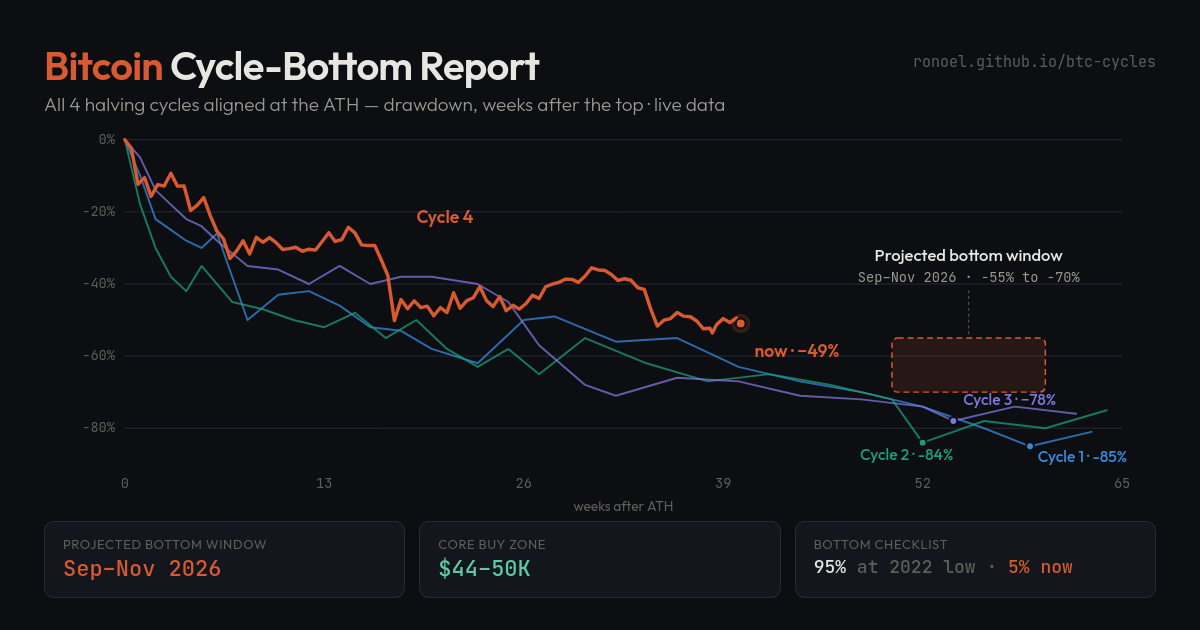
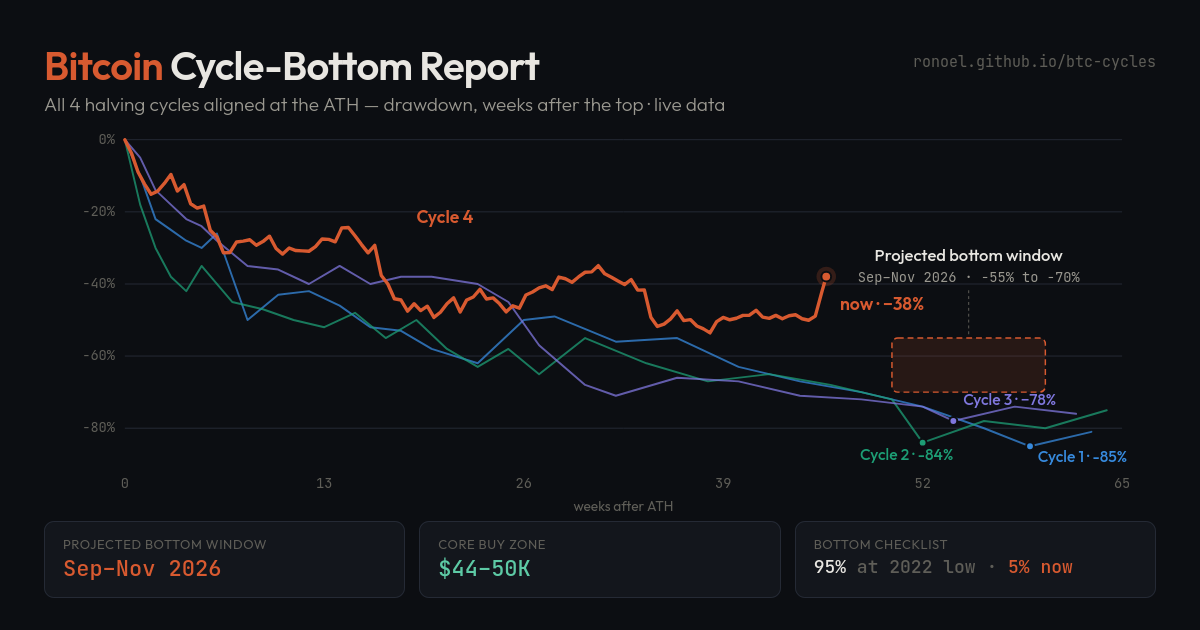
Stop the OG card's Cycle-4 line ageing by hand, and give the ETF row a run that can actually see it
Two follow-ups from the Aug 21 pass, both root-cause rather than symptom.

1. scripts/build_og_card.py (new) regenerates the card's C4 line from live Binance data.
   The line was hand-pasted in Jul 2026 and MAINTENANCE called its drift "by design" --
   true only because regenerating it was manual. By Aug 21 it ended at week ~40 / -51%
   against a live week ~46 / -38%: a ten-point error on the image every social preview of
   the report embeds, and it hid the entire rally this week's analysis is about.
   The script rewrites only the C4 path (the sole stroke-width 3.5 path), the `now` dot
   and halo, its label, and the provenance comment. Cycles 1-3 are finished history and
   it has no code that can reach them. The SVG scale is read off the chart's own axis
   ticks rather than assumed. Week 0 is anchored to exactly 0%: ATH is an intraday high,
   so the close that day sits 1.3% below it and C4 would otherwise start below the other
   three lines for no reason a reader could interpret. Verified idempotent.
   og-card.html + og.png regenerated: line now runs to week ~45.7, marker at -38%.

2. The daily Action gains a 19:00 UTC run. SoSoValue does not have the previous US
   session's ETF flows at 06:00 -- measured Aug 21: the 06:10 run got data through Aug 19
   while a manual pull at 17:40 the same day already had Aug 20 (+$606M). So the schedule
   was structurally a day behind on the one row that arbitrates a leg of the
[…]

diff --git a/og-card.html b/og-card.html
@@ -1,4 +1,4 @@
-<!-- OG share-image source: open at 1200x630 and screenshot to og.png. Regenerate when the thesis/window changes (see MAINTENANCE.md) — use firefox headless, NOT opera, which tiles the card. C4 line is a static snapshot (Jul 2026). -->
+<!-- OG share-image source: open at 1200x630 and screenshot to og.png. Regenerate when the thesis/window changes (see MAINTENANCE.md) — use firefox headless, NOT opera, which tiles the card. C4 line regenerated by scripts/build_og_card.py (data through 2026-08-22). -->
 <!DOCTYPE html><html><head><meta charset="utf-8"><style>
 @import url('https://fonts.googleapis.com/css2?family=JetBrains+Mono:wght@400;500&family=Outfit:wght@300;400;500;600&display=swap');
 *{margin:0;padding:0;box-sizing:border-box}
@@ -46,16 +46,16 @@ svg{margin-top:10px}
 <path d="M70.0,14.0 L85.7,50.9 L101.4,95.2 L117.1,106.2 L132.8,117.3 L148.5,124.7 L164.2,109.9 L195.5,198.4 L226.9,172.6 L258.3,168.9 L289.7,183.7 L321.1,205.8 L352.5,209.5 L383.8,228.0 L430.9,242.7 L478.0,198.4 L509.4,194.8 L572.2,220.6 L634.9,216.9 L697.7,246.4 L760.5,261.2 L823.2,272.2 L886.0,287.0 L948.8,309.1 L995.8,327.6 L1058.6,312.8" fill="none" stroke="#378ADD" stroke-width="2" opacity=".75" stroke-linejoin="round" stroke-linecap="round"/>
 <path d="M70.0,14.0 L85.7,80.4 L101.4,124.7 L117.1,154.2 L132.8,168.9 L148.5,143.1 L179.8,180.0 L211.2,187.4 L242.6,198.4 L274.0,205.8 L305.4,191.1 L336.8,216.9 L368.2,198.4 L399.5,228.0 L430.9,246.4 L462.3,228.0 L493.7,253.8 L540.8,216.9 L603.5,242.7 L666.3,261.2 L729.1,253.8 L791.8,264.8 L854.6,279.6 L886.0,323.9 L948.8,301.7 L1011.5,309.1 L1074.3,290.7" fill="none" stroke="#1D9E75" stroke-width="2" opacity=".75" stroke-linejoin="round" stroke-linecap="round"/>
 <path d="M70.0,14.0 L85.7,32.4 L101.4,65.6 L117.1,80.4 L132.8,95.2 L148.5,102.5 L164.2,117.3 L195.5,143.1 L226.9,146.8 L258.3,161.6 L289.7,143.1 L321.1,161.6 L352.5,154.2 L383.8,154.2 L430.9,161.6 L462.3,180.0 L493.7,224.3 L540.8,264.8 L572.2,275.9 L634.9,257.5 L697.7,261.2 L760.5,275.9 L823.2,279.6 L886.0,287.0 L917.4,301.7 L980.2,287.0 L1042.9,294.4" fill="none" stroke="#7F77DD" stroke-width="2" opacity=".75" stroke-linejoin="round" stroke-linecap="round"/>
-<path d="M70.0,14.0 L76.7,22.7 L83.5,59.7 L90.2,52.8 L96.8,72.0 L103.6,60.0 L110.3,61.4 L117.1,48.3 L123.8,61.5 L130.6,61.3 L137.3,86.4 L143.9,81.1 L150.7,73.2 L157.4,91.7 L164.2,107.6 L170.9,115.5 L177.6,135.4 L184.4,127.7 L191.0,117.4 L197.7,130.9 L204.5,113.9 L211.2,118.9 L218.0,114.1 L224.7,119.3 L231.5,126.3 L238.1,125.4 L244.8,124.0 L251.6,128.1 L258.3,126.0 L265.1,126.9 L271.8,118.2 L278.6,109.1 L285.1,118.1 L291.9,116.2 L298.6,103.6 L305.4,109.3 L312.1,121.6 L318.9,122.3 L325.6,122.2 L332.2,136.8 L339.0,152.9 L345.7,199.1 L352.5,177.5 L359.2,186.9 L366.0,178.9 L372.7,185.7 L379.3,184.2 L386.0,194.1 L392.8,185.8 L399.5,190.8 L406.3,170.6 L413.0,186.4 L419.8,178.6 L426.4,175.7 L433.1,164.2 L439.9,178.6 L446.6,184.7 L453.4,174.5 L460.1,189.0 L466.9,183.4 L473.4,187.3 L480.2,181.8 L486.9,173.2 L493.7,176.3 L500.4,164.4 L507.2,161.8 L513.9,159.9 L520.5,156.7 L527.3,156.9 L534.0,159.9 L540.8,153.4 L547.5,145.0 L554.3,147.2 L561.0,147.8 L567.6,151.8 L574.4,158.0 L581.1,156.2 L587.8,157.8 L594.6,165.4 L601.3,167.1 L608.1,187.9 L614.7,204.6 L621.4,198.6 L628.2,197.0 L634.9,190.8 L641.7,194.5 L648.4,195.1 L655.2,199.7 L661.8,207.4 L668.5,206.9 L670.9,211.7 L675.3,203.1 L682.0,197.0 L688.7,201.0 L695.5,196.5 L699.9,201.9" fill="none" stroke="#D85A30" stroke-width="3.5" opacity="1" stroke-linejoin="round" stroke-linecap="round"/>
+<path d="M70.0,14.0 L76.7,27.5 L83.5,47.1 L90.2,59.4 L96.9,69.8 L103.6,66.6 L110.4,58.7 L117.1,49.6 L123.8,66.5 L130.5,60.0 L137.3,79.5 L144.0,84.0 L150.7,81.9 L157.4,106.6 L164.2,113.5 L170.9,129.8 L177.6,129.3 L184.3,118.6 L191.1,117.7 L197.8,116.3 L204.5,122.0 L211.2,118.2 L218.0,112.7 L224.7,125.3 L231.4,131.0 L238.1,124.8 L244.9,127.4 L251.6,127.7 L258.3,128.1 L265.0,123.4 L271.8,115.5 L278.5,116.0 L285.2,118.5 L291.9,104.2 L298.7,103.8 L305.4,112.3 L312.1,121.3 L318.8,129.7 L325.6,122.1 L332.3,152.9 L339.0,161.6 L345.7,176.7 L352.5,178.0 L359.2,189.3 L365.9,181.8 L372.6,188.8 L379.4,184.3 L386.1,195.8 L392.8,190.5 L399.5,181.8 L406.3,175.8 L413.0,190.2 L419.7,177.9 L426.4,174.9 L433.2,167.0 L439.9,176.9 L446.6,175.8 L453.3,181.9 L460.1,190.1 L466.8,183.9 L473.5,186.3 L480.2,172.8 L487.0,169.8 L493.7,165.5 L500.4,163.4 L507.1,167.3 L513.9,154.5 L520.6,156.2 L527.3,159.9 L534.0,154.4 L540.8,149.6 L547.5,149.2 L554.2,142.8 L560.9,151.2 L567.7,154.6 L574.4,158.5 L581.1,162.2 L587.8,157.0 L594.6,167.9 L601.3,167.7 L608.0,195.5 L614.7,205.0 L621.5,202.6 L628.2,197.2 L634.9,189.1 L641.6,199.0 L648.4,198.0 L655.1,204.5 L661.8,207.5 L668.5,211.6 L675.3,200.1 L682.0,195.8 L688.7,198.2 L695.5,196.6 L702.2,193.7 L708.9,193.5 L715.6,188.5 L722.4,195.5 L729.1,196.7 L735.8,193.7 L742.5,197.2 L749.3,194.0 L756.0,193.1 L762.7,197.1 L769.4,198.7 L776.2,194.4 L782.9,169.6 L787.4,154.0" fill="none" stroke="#D85A30" stroke-width="3.5" opacity="1" stroke-linejoin="round" stroke-linecap="round"/>
 <circle cx="995.8" cy="327.6" r="4" fill="#378ADD" stroke="#0c0e12" stroke-width="2"/>
 <text x="1003.8" y="343.6" class="lbl" fill="#378ADD">Cycle 1 · -85%</text>
 <circle cx="886.0" cy="323.9" r="4" fill="#1D9E75" stroke="#0c0e12" stroke-width="2"/>
 <text x="822.0" y="341.9" class="lbl" fill="#1D9E75">Cycle 2 · -84%</text>
 <circle cx="917.4" cy="301.7" r="4" fill="#7F77DD" stroke="#0c0e12" stroke-width="2"/>
 <text x="927.4" y="285.7" class="lbl" fill="#7F77DD">Cycle 3 · −78%</text>
-<circle cx="699.9" cy="201.9" r="10" fill="#D85A3033"/>
-<circle cx="699.9" cy="201.9" r="5" fill="#D85A30" stroke="#0c0e12" stroke-width="2"/>
-<text x="713.9" y="235.9" class="lbl now" fill="#D85A30">now · −49%</text><text x="368.2" y="98.8" class="lbl now" fill="#D85A30">Cycle 4</text></svg>
+<circle cx="787.4" cy="154.0" r="10" fill="#D85A3033"/>
+<circle cx="787.4" cy="154.0" r="5" fill="#D85A30" stroke="#0c0e12" stroke-width="2"/>
+<text x="801.4" y="188.0" class="lbl now" fill="#D85A30">now · −38%</text><text x="368.2" y="98.8" class="lbl now" fill="#D85A30">Cycle 4</text></svg>
 <div class="stats">
 <div class="st"><div class="k">Projected bottom window</div><div class="v o">Sep–Nov 2026</div></div>
 <div class="st"><div class="k">Core buy zone</div><div class="v t">$44–50K</div></div>

diff --git a/scripts/build_og_card.py b/scripts/build_og_card.py
@@ -1,0 +1,130 @@
+#!/usr/bin/env python3
+"""Refresh the Cycle-4 line and the `now` marker in og-card.html from live data.
+
+Why this exists: the card's C4 polyline was a hand-pasted snapshot. By Aug 21, 2026 it
+ended at week ~40 / -51% while the live reading was week ~46 / -39% -- a ten-point drift
+on the image that gets embedded in every social preview of the report. MAINTENANCE.md
+called that drift "by design", which was true only because regenerating it was manual.
+It isn't any more.
+
+Usage:
+    python3 scripts/build_og_card.py          # rewrites og-card.html in place
+then re-screenshot per MAINTENANCE.md:
+    python3 -m http.server 8931 &
+    firefox --headless --profile ~/ffprof --no-remote \\
+            --screenshot ~/og.png --window-size 1200,630 \\
+            http://localhost:8931/og-card.html
+(Chromium/Opera tile the card; Firefox is the one that renders it faithfully. Snap
+browsers cannot write into the repo, hence the $HOME hop.)
+
+Only the C4 line, the `now` marker and the snapshot date are touched. Cycles 1-3 are
+finished history and are never regenerated -- they are as fixed as the tables in
+index.html, and this script deliberately has no code that could rewrite them.
+"""
+import io, json, os, re, sys, datetime, urllib.request
+
+ROOT = os.path.dirname(os.path.dirname(os.path.abspath(__file__)))
+CARD = os.path.join(ROOT, "og-card.html")
+
+# Must match index.html's ATH/ATHD consts. MAINTENANCE.md §4 lists these as never-touch.
+ATH, ATH_DATE = 126296.0, datetime.date(2025, 10, 6)
+
+# The SVG's own scale, read off its axis ticks rather than assumed: week 0 sits at
+# x=70 and week 65 at x=1090; 0% sits at y=14 and -80% at y=309.1.
+X0, PX_WEEK = 70.0, (1090.0 - 70.0) / 65
+Y0, PX_PCT = 14.0, (309.1 - 14.0) / 80
+STEP_DAYS = 3  # sampling density of the original path, kept so the line reads the same
+
+
+def daily_closes(start):
+    """(date, close) from `start` to today, oldest first, from Binance klines."""
+    out, cursor = {}, int(datetime.datetime.combine(
+        start, datetime.time(), datetime.timezone.utc).timestamp() * 1000)
+    while True:
+        url = ("https://api.binance.com/api/v3/klines?symbol=BTCUSDT&interval=1d"
+               "&limit=1000&startTime=%d" % cursor)
+        req = urllib.request.Request(url, headers={"User-Agent": "btc-cycles/1.0"})
+        rows = json.load(urllib.request.urlopen(req, timeout=45))
+        if not rows:
+            break
+        for r in rows:
+            d = datetime.datetime.fromtimestamp(r[0] / 1000, datetime.timezone.utc).date()
+            out[d] = float(r[4])
+        if len(rows) < 1000:
+            break
+        cursor = rows[-1][0] + 86_400_000
+    return sorted(out.items())
+
+
+def main():
+    series = daily_closes(ATH_DATE)
+    if not series:
+        sys.exit("no candles returned")
+
+    # Sample every STEP_DAYS, and always keep the newest point so the marker is current.
+    picked = [series[i] for i in range(0, len(series), STEP_DAYS)]
+    if picked[-1][0] != series[-1][0]:
+        picked.append(series[-1])
+
+    pts = []
+    for d, px in picked:
+        wk = (d - ATH_DATE).days / 7
+        dd = (px / ATH - 1) * 100
+        pts.append((X0 + wk * PX_WEEK, Y0 - dd * PX_PCT))
+    # Anchor week 0 at exactly 0%, like the other three lines. The chart is "aligned at
+    # the ATH", and ATH is an intraday high: the close that day was 1.3% below it, which
+    # would start C4 a hair under the 0% gridline and under the other three cycles for no
+    # reason the reader could interpret.
+    pts[0] = (X0, Y0)
+    path = " L".join("%.1f,%.1f" % p for p in pts)
+    path = "M" + path[1:] if path.startswith("L") else "M" + path
+
+    end_d, end_px = series[-1]
+    ex, ey = pts[-1]
+    end_dd = (end_px / ATH - 1) * 100
+
+    s = io.open(CARD, encoding="utf-8").read()
+    before = s
+
+    # 1. The C4 line: the ONLY path drawn at stroke-width 3.5. Cycles 1-3 use 2.
+    s, n = re.subn(r'(<path d=")M[^"]+("[^>]*stroke-width="3\.5")',
+                   lambda m: m.group(1) + path + m.group(2), s, count=1)
+    assert n == 1, "C4 path (stroke-width 3.5) not found"
+
+    # 2. The `now` marker: the halo and the dot, both at the old endpoint.
+    old_xy = re.search(r'<circle cx="([\d.]+)" cy="([\d.]+)" r="10"', s)
+    assert old_xy, "now halo not found"
+    ox, oy = old_xy.group(1), old_xy.group(2)
+    s = s.replace('<circle cx="%s" cy="%s" r="10"' % (ox, oy),
+                  '<circle cx="%.1f" cy="%.1f" r="10"' % (ex, ey))
+    s = s.replace('<circle cx="%s" cy="%s" r="5"' % (ox, oy),
+                  '<circle cx="%.1f" cy="%.1f" r="5"' % (ex, ey))
+
+    # 3. Its label, keeping the original's offset from the dot (+14, +34).
+    s, n = re.subn(r'<text x="[\d.]+" y="[\d.]+" class="lbl now" fill="#D85A30">now[^<]*</text>',
+                   '<text x="%.1f" y="%.1f" class="lbl now" fill="#D85A30">'
+                   'now · −%d%%</text>' % (ex + 14, ey + 34, round(-end_dd)),
+                   s, count=1)
+    assert n == 1, "now label not found"
+
+    # 4. The provenance comment at the top of the file.
+    s, n = re.subn(r'C4 line is a static snapshot \([^)]*\)',
+                   'C4 line regenerated by scripts/build_og_card.py (data through %s)'
+                   % end_d.isoformat(), s, count=1)
+    if not n:
+        s, n = re.subn(r'C4 line regenerated by scripts/build_og_card\.py \(data through [^)]*\)',
+                       'C4 line regenerated by scripts/build_og_card.py (data through %s)'
+                       % end_d.isoformat(), s, count=1)
+    assert n == 1, "provenance comment not found"
+
+    if s == before:
+        print("no change")
+        return
+    io.open(CARD, "w", encoding="utf-8").write(s)
+    print("og-card.html: C4 %d pts, %s -> %s, ends week %.1f at %.1f%% ($%.0f)"
+          % (len(pts), series[0][0], end_d, (end_d - ATH_DATE).days / 7, end_dd, end_px))
+    print("now re-screenshot per MAINTENANCE.md (firefox headless, 1200x630)")
+
+
+if __name__ == "__main__":
+    main()

diff --git a/MAINTENANCE.md b/MAINTENANCE.md
@@ -10,9 +10,9 @@ What keeps this report accurate, who updates it (automatic vs manual), and how o
 | Price indicators (Mayer Multiple, 200D MA, Pi Cycle Top, weekly RSI, 200-week MA) | Computed from Binance daily closes | On page load | client-side JS |
 | Fear & Greed | alternative.me API | On page load | client-side JS |
 | Funding rate (7-day avg of 8-hourly BTCUSDT perpetual funding) | Binance Futures API (`fapi/v1/fundingRate`) | On page load | client-side JS (`fetchFunding()`) |
-| On-chain metrics (Realized Price, **MVRV ratio + MVRV Z-Score**, NUPL, SOPR, Puell, **short-term-holder MVRV + STH cost basis**) | bitcoin-data.com (BGeometrics) → `data.json` + `history.json` | **Daily 06:00 UTC** | GitHub Action → `scripts/build_data.py` |
-| Macro (US M2 + y/y, Fed assets, TGA, RRP, net liquidity, 10y & 2y nominal, 10y real, HY/IG OAS, broad USD index) | FRED keyless CSV → `data.json` | **Daily 06:00 UTC** | same Action |
-| US spot ETF net flows (5d / 20d / 60d / YTD / cumulative / AUM) | SoSoValue → `data.json` | **Daily 06:00 UTC** | same Action |
+| On-chain metrics (Realized Price, **MVRV ratio + MVRV Z-Score**, NUPL, SOPR, Puell, **short-term-holder MVRV + STH cost basis**) | bitcoin-data.com (BGeometrics) → `data.json` + `history.json` | **Daily 06:00 + 19:00 UTC** | GitHub Action → `scripts/build_data.py` |
+| Macro (US M2 + y/y, Fed assets, TGA, RRP, net liquidity, 10y & 2y nominal, 10y real, HY/IG OAS, broad USD index) | FRED keyless CSV → `data.json` | **Daily 06:00 + 19:00 UTC** | same Action |
+| US spot ETF net flows (5d / 20d / 60d / YTD / cumulative / AUM) | SoSoValue → `data.json` | **Daily 06:00 + 19:00 UTC** — the 19:00 run exists *because* SoSoValue does not have the prior US session by 06:00 (measured Aug 21, 2026); the ETF row is the arbiter for a falsifier-#6 leg, so a structural one-day lag there is not cosmetic | same Action |
 | Live checklist rows (tagged `LIVE`, incl. funding rate, macro composite and ETF flows), macro-table rows tagged `LIVE`, on-chain floor card, 200W MA card, buy-ladder highlight, family/stage banner, expert & equal readiness, retro-calibration chart, cycle-clock & drawdown-progress thesis stats | Derived from the above | On page load | client-side JS |
 
 **Health check (monthly):** confirm the GitHub Action is green (repo → Actions → "Update on-chain data"), that `data.json`'s `updated` field is recent, and that **`data.json`'s `stale` array is empty** — it lists any source that failed and kept its previous value. `scripts/build_data.py` never fails the build on a bad source, so a silently degraded feed shows up there and nowhere else.
@@ -131,7 +131,7 @@ entry there whenever a research pass changes a threshold, a weight or the thesis
 | **Thesis invalidated** (e.g. sustained reclaim of ~$90K+ with bottom signals still inactive, or new ATH) | Re-derive the whole convergence analysis — bands and window are no longer valid |
 | **Price bands/window revised by new research** | Update in ALL places at once: `LAD_BANDS` const, `lad` rows, ch2 band plugin price levels (`[57000,50000,44000,38000]` + window weeks 50–60), `th_core` value in thesis HTML, `cvp` cards, `th_p` text |
 | **New halving date estimate** | `H5` const in `index.html` |
-| **Window or thesis changed (any of the above)** | Also update the OG/Twitter meta descriptions in the `<head>` of `index.html` (they cite the Sep–Nov 2026 window, the $44–50K zone, and the signal count. **The current-reading figure was removed from them on Aug 19, 2026** — a meta tag cannot be live and that number drifted 43% → 24% in a week. Do not put it back; `og-card.html` still carries it, which is why the card needs regenerating whenever it moves materially) and regenerate the share image: edit `og-card.html`, then run<br>`google-chrome --headless --disable-gpu --hide-scrollbars --window-size=1200,630 --screenshot=og.png og-card.html`<br>**Opera cannot do this one** — its headless screenshot tiles the card 2×2 and crops the stat row, even with `--force-device-scale-factor=1`, so the DOM-dump substitute does not carry over here. Use `firefox --headless --profile ~/ffprof --no-remote --screenshot ~/og.png --window-size 1200,630 http://localhost:8931/og-card.html`, which is pixel-faithful; the dedicated profile and `--no-remote` are needed if a Firefox window is already open. Snap-confined browsers cannot write into `/tmp` or the repo — screenshot into `$HOME` and move the file.<br>The card also carries the **checklist signal count**, so changing the number of signals requires a regeneration too. Its C4 chart line stays a static snapshot — the `now · −N%` label drifts from the live drawdown by design |
+| **Window or thesis changed (any of the above)** | Also update the OG/Twitter meta descriptions in the `<head>` of `index.html` (they cite the Sep–Nov 2026 window, the $44–50K zone, and the signal count. **The current-reading figure was removed from them on Aug 19, 2026** — a meta tag cannot be live and that number drifted 43% → 24% in a week. Do not put it back; `og-card.html` still carries it, which is why the card needs regenerating whenever it moves materially) and regenerate the share image: run **`python3 scripts/build_og_card.py`** (rewrites the Cycle-4 line, the `now` marker and its label from live Binance data — it touches nothing else, and cycles 1–3 are finished history it has no code to reach), edit `og-card.html` by hand for anything else, then run<br>`google-chrome --headless --disable-gpu --hide-scrollbars --window-size=1200,630 --screenshot=og.png og-card.html`<br>**Opera cannot do this one** — its headless screenshot tiles the card 2×2 and crops the stat row, even with `--force-device-scale-factor=1`, so the DOM-dump substitute does not carry over here. Use `firefox --headless --profile ~/ffprof --no-remote --screenshot ~/og.png --window-size 1200,630 http://localhost:8931/og-card.html`, which is pixel-faithful; the dedicated profile and `--no-remote` are needed if a Firefox window is already open. Snap-confined browsers cannot write into `/tmp` or the repo — screenshot into `$HOME` and move the file.<br>The card also carries the **checklist signal count**, so changing the number of signals requires a regeneration too. Its C4 chart line **is no longer a hand-pasted snapshot**: `scripts/build_og_card.py` regenerates it. Before Aug 21, 2026 the drift was documented as "by design", which was only true because regenerating it was manual — by then the line ended at week ~40 / −51% against a live week ~46 / −38%, a ten-point error on the image that every social preview of the report embeds. Re-run the script whenever you regenerate the card |
 
 ## 4. Fixed — never touch
 
